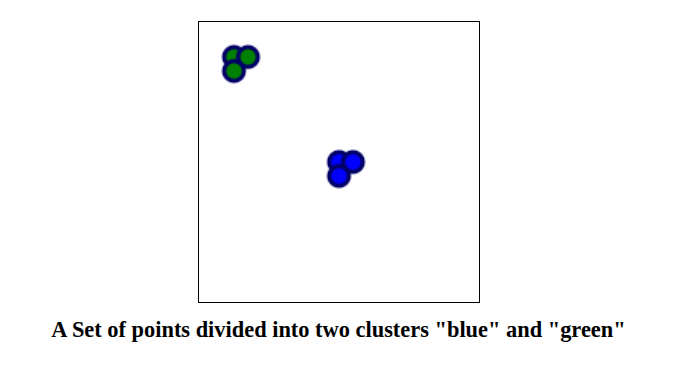
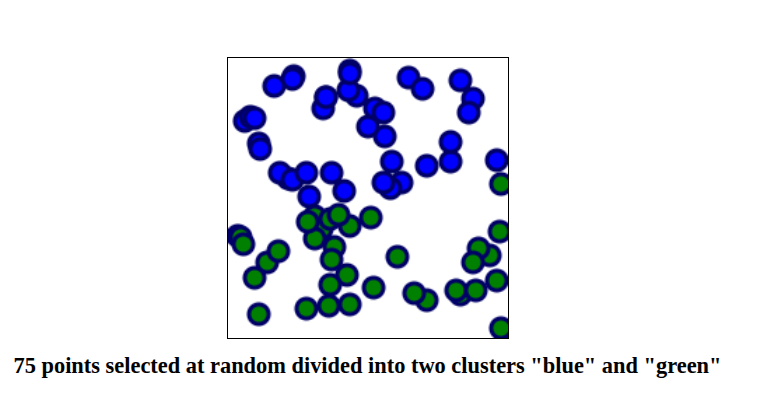
geo/geo/examples/web-app
1) Added a landing page image to the web-app README.md.
2) Pass the design throught a HTML validator, fixed all my mistakes.
3) Fixes minor issues with the documentation.

Changed region(s): [[0.0, 0.1199, 0.9504, 0.9591]]

diff --git a/geo/examples/web-app/static/index.html b/geo/examples/web-app/static/index.html
@@ -35,8 +35,8 @@
             <canvas id="cluster" width="200" height="200"></canvas>
             <figcaption>
                 <strong
-                    >A set of points divided into two clusters "blue" and
-                    "green"</strong
+                    >75 points selected at random divided into two clusters
+                    "blue" and "green"</strong
                 >
             </figcaption>
         </figure>

diff --git a/geo/examples/web-app/src/lib.rs b/geo/examples/web-app/src/lib.rs
@@ -1,38 +1,42 @@
 use console_log::init_with_level;
-use geo::KMeans;
-use geo::{point, MultiPoint};
-use log::{info, Level};
+use geo::MultiPoint;
+use geo::{KMeans, Point};
+use log::{Level, info};
+use rand::Rng;
 use wasm_bindgen::prelude::*;
 
 #[wasm_bindgen]
 /// Mininal kmeans app.
 pub fn compute_clusters() -> JsValue {
     let _ = init_with_level(Level::Debug);
+    let mut rng = rand::rng();
 
-    let points = MultiPoint::new(vec![
-        point!(x: 25.0_f64, y: 25.0_f64),
-        point!(x: 35.0_f64, y: 25.0_f64),
-        point!(x: 25.0_f64, y: 35.0_f64),
-        point!(x: 100.0, y: 100.0_f64),
-        point!(x: 110.0_f64, y: 100.0_f64),
-        point!(x: 100.0_f64, y: 110.0_f64),
-    ]);
+    let points = (0..75)
+        .map(|_| {
+            Point::new(
+                rng.random_range(5..=195) as f32,
+                rng.random_range(5..=195) as f32,
+            )
+        })
+        .collect::<Vec<Point<f32>>>();
+
+    let mp = MultiPoint::new(points);
 
     info!("Starting computation");
-    let labels = points.kmeans(2).unwrap();
+    let labels = mp.kmeans(2).unwrap();
     info!("Computation complete");
 
     info!("{labels:?}");
     // Two clusters should be found
     let cluster_0 = labels
         .iter()
-        .zip(points.0.iter())
+        .zip(mp.0.iter())
         .filter(|(index, _)| **index == 0)
         .map(|(_, p)| [p.x(), p.y()])
         .collect::<Vec<_>>();
     let cluster_1 = labels
         .iter()
-        .zip(points.0.iter())
+        .zip(mp.0.iter())
         .filter(|(index, _)| **index == 1)
         .map(|(_, p)| [p.x(), p.y()])
         .collect::<Vec<_>>();
